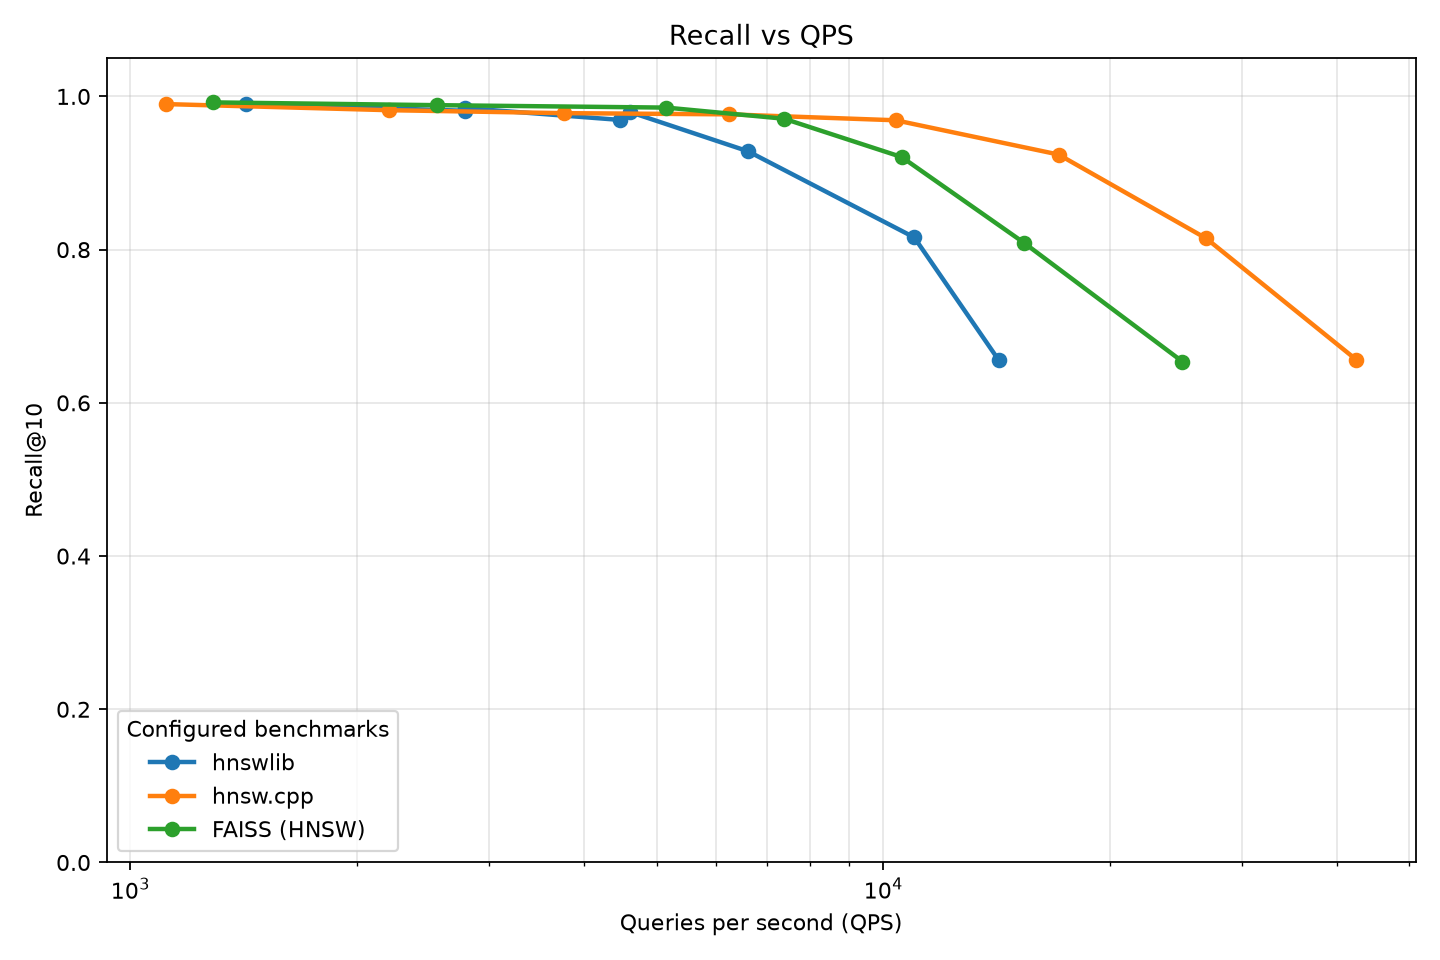
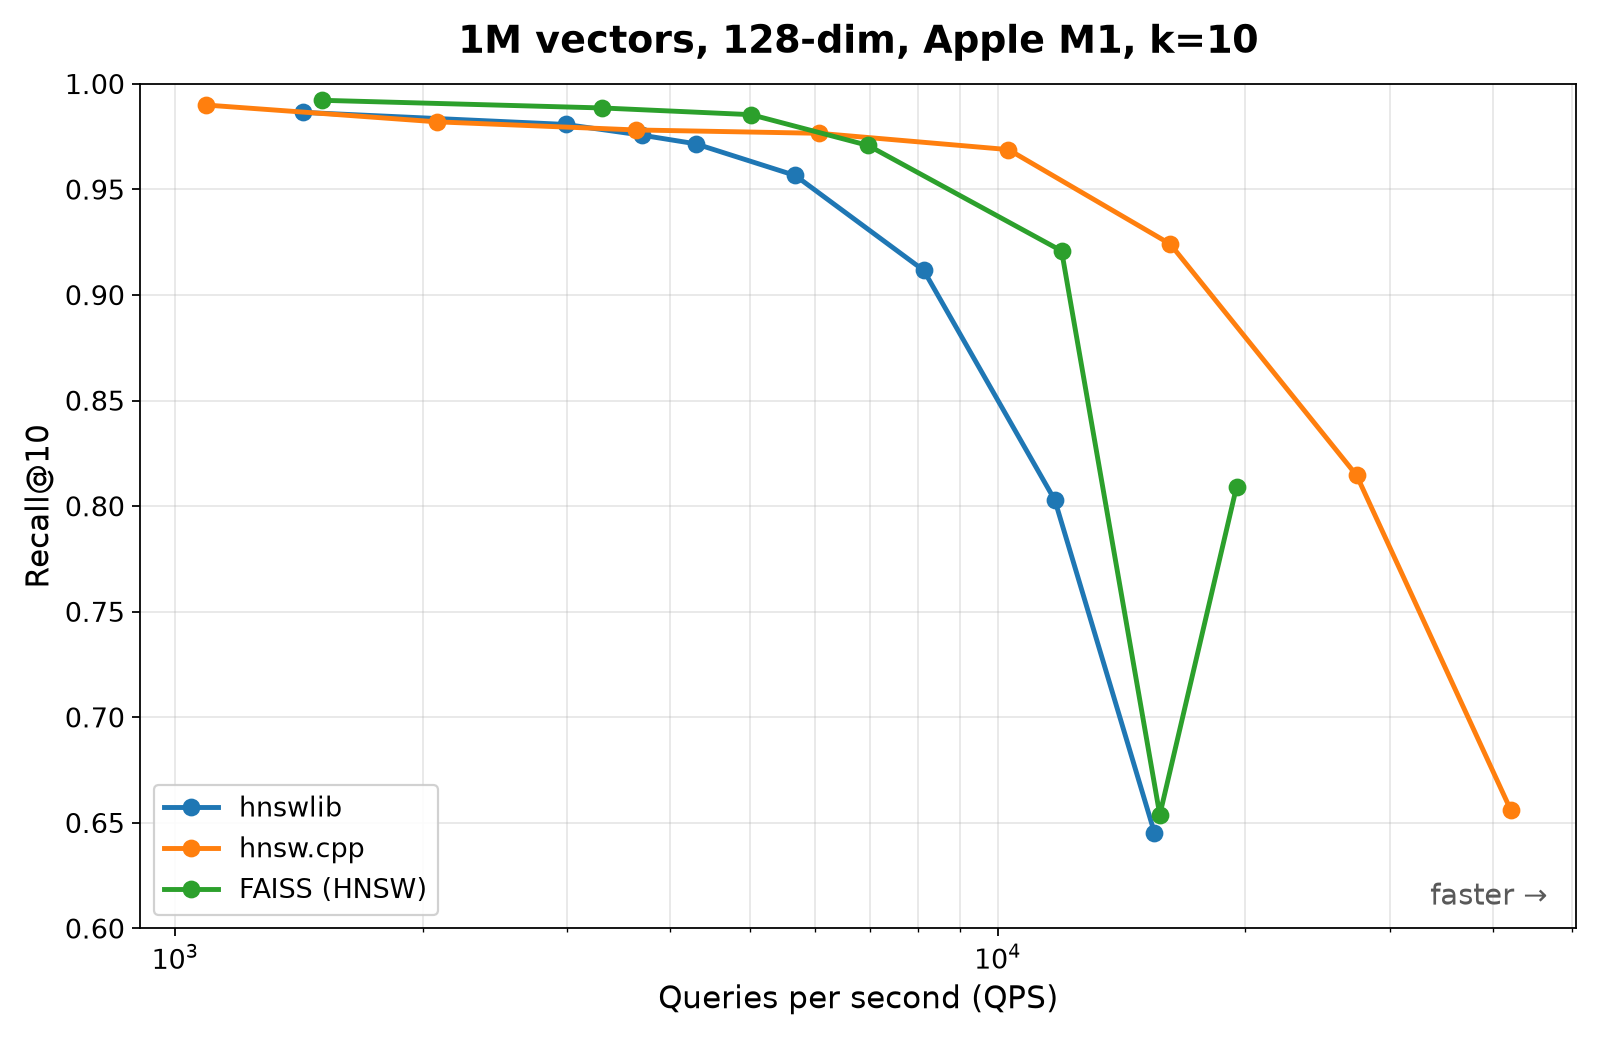
Rename to HNSW.cpp and improve LinkedIn-ready chart
- Rename package vecsearch-bench -> hnsw-cpp-bench (pyproject.toml, uv.lock)
- Update READMEs to reference HNSW.cpp instead of VecSearch
- Fix root README intro wording
- Graph y-axis: 0.6-1.0 (auto-expands if recall drops below)
- Chart title from run setup: vectors, dim, hardware (sysctl Apple M1), k
- Drop internal 'Configured benchmarks' legend title
- Larger mobile-friendly fonts (title 17, axis 14, ticks/legend 12)
- Add 'faster ->' callout on log x-axis; full x-range retained

diff --git a/scripts/bench/bench/report.py b/scripts/bench/bench/report.py
@@ -2,7 +2,10 @@ from __future__ import annotations
 
 import csv
 import json
+import math
+import platform
 import re
+import subprocess
 from dataclasses import asdict
 from pathlib import Path
 
@@ -112,6 +115,45 @@ def _write_json(result: RunResult) -> None:
         json.dump(payload, handle, indent=2)
 
 
+def _format_count(value: int) -> str:
+    if value >= 1_000_000:
+        return f"{value / 1_000_000:g}M"
+    if value >= 1_000:
+        return f"{value / 1_000:g}k"
+    return str(value)
+
+
+def _detect_hardware() -> str:
+    if platform.system() == "Darwin":
+        try:
+            completed = subprocess.run(
+                ["sysctl", "-n", "machdep.cpu.brand_string"],
+                capture_output=True,
+                check=False,
+                text=True,
+                timeout=2,
+            )
+        except (OSError, subprocess.SubprocessError):
+            pass
+        else:
+            name = completed.stdout.strip()
+            if name:
+                return name
+    return platform.processor() or platform.machine() or "unknown"
+
+
+def _recall_bounds(result: RunResult) -> tuple[float, float]:
+    recalls = [
+        point.recall
+        for series in result.series
+        for point in series.points
+    ]
+    if not recalls:
+        return 0.0, 1.0
+    lower = min(0.6, math.floor(min(recalls) * 10) / 10)
+    return max(0.0, lower), 1.0
+
+
 def _write_graph(result: RunResult, latest_path: Path) -> None:
     import matplotlib
 
@@ -119,7 +161,7 @@ def _write_graph(result: RunResult, latest_path: Path) -> None:
     import matplotlib.pyplot as plt
 
     assert result.graph_path is not None
-    figure, axis = plt.subplots(figsize=(9.0, 6.0))
+    figure, axis = plt.subplots(figsize=(10.0, 6.5))
 
     for series in result.series:
         ordered = sorted(series.points, key=lambda point: point.qps)
@@ -129,18 +171,36 @@ def _write_graph(result: RunResult, latest_path: Path) -> None:
             qps,
             recall,
             marker="o",
-            linewidth=2.0,
-            markersize=6.0,
+            linewidth=2.2,
+            markersize=7.0,
             label=series.label,
         )
 
+    k = result.config.metrics.k
+    hardware = result.config.output.hardware or _detect_hardware()
     axis.set_xscale("log")
-    axis.set_xlabel("Queries per second (QPS)")
-    axis.set_ylabel(f"Recall@{result.config.metrics.k}")
-    axis.set_ylim(0.0, 1.05)
+    axis.set_xlabel("Queries per second (QPS)", fontsize=14)
+    axis.set_ylabel(f"Recall@{k}", fontsize=14)
+    axis.set_ylim(*_recall_bounds(result))
+    axis.tick_params(axis="both", which="major", labelsize=12)
+    axis.tick_params(axis="both", which="minor", labelsize=11)
     axis.grid(True, which="both", alpha=0.3)
-    axis.legend(title="Configured benchmarks")
-    axis.set_title("Recall vs QPS")
+    axis.legend(fontsize=12, framealpha=0.9, loc="lower left")
+    axis.annotate(
+        "faster →",
+        xy=(0.98, 0.02),
+        xycoords="axes fraction",
+        ha="right",
+        va="bottom",
+        fontsize=13,
+        color="0.35",
+    )
+    axis.set_title(
+        f"{_format_count(result.n)} vectors, {result.dim}-dim, {hardware}, k={k}",
+        fontsize=17,
+        fontweight="bold",
+        pad=14,
+    )
     figure.tight_layout()
     figure.savefig(result.graph_path, dpi=160, facecolor="white")
     figure.savefig(latest_path, dpi=160, facecolor="white")

diff --git a/scripts/bench/bench/settings.py b/scripts/bench/bench/settings.py
@@ -27,6 +27,7 @@ class OutputConfig:
     dir: str
     format: str
     label: str | None = None
+    hardware: str | None = None
 
 
 @dataclass

diff --git a/scripts/bench/README.md b/scripts/bench/README.md
@@ -1,7 +1,7 @@
 # scripts/bench
 
 Local **recall vs QPS** benchmarks for vector search libraries. See the
-[VecSearch README](../../README.md) for the project overview and the latest
+[HNSW.cpp README](../../README.md) for the project overview and the latest
 graph.
 
 A `BenchmarkSystem` value describes a library's operations, an instance

diff --git a/README.md b/README.md
@@ -1,6 +1,6 @@
 # HNSW.cpp
 
-This is a vector search algorithm for ann search with a local benchmark
+HNSW.cpp is a collection of vector search algorithms with a local benchmark
 harness for comparing them on the same data, metric, and methodology.
 **hnswlib** is included as the baseline implementation.
 

diff --git a/apps/hnsw.cpp/README.md b/apps/hnsw.cpp/README.md
@@ -137,7 +137,7 @@ the single source of truth.
 
 ## Benchmark
 
-The library is registered with the VecSearch benchmark harness as `hnsw-cpp`.
+The library is registered with the HNSW.cpp benchmark harness as `hnsw-cpp`.
 From the repository root:
 
 ```bash

diff --git a/apps/hnsw.py/README.md b/apps/hnsw.py/README.md
@@ -67,7 +67,7 @@ uv run hnsw-py
 
 ## Benchmark
 
-The library is registered with the VecSearch benchmark harness as `hnsw-py`.
+The library is registered with the HNSW.cpp benchmark harness as `hnsw-py`.
 From the repository root:
 
 ```bash
